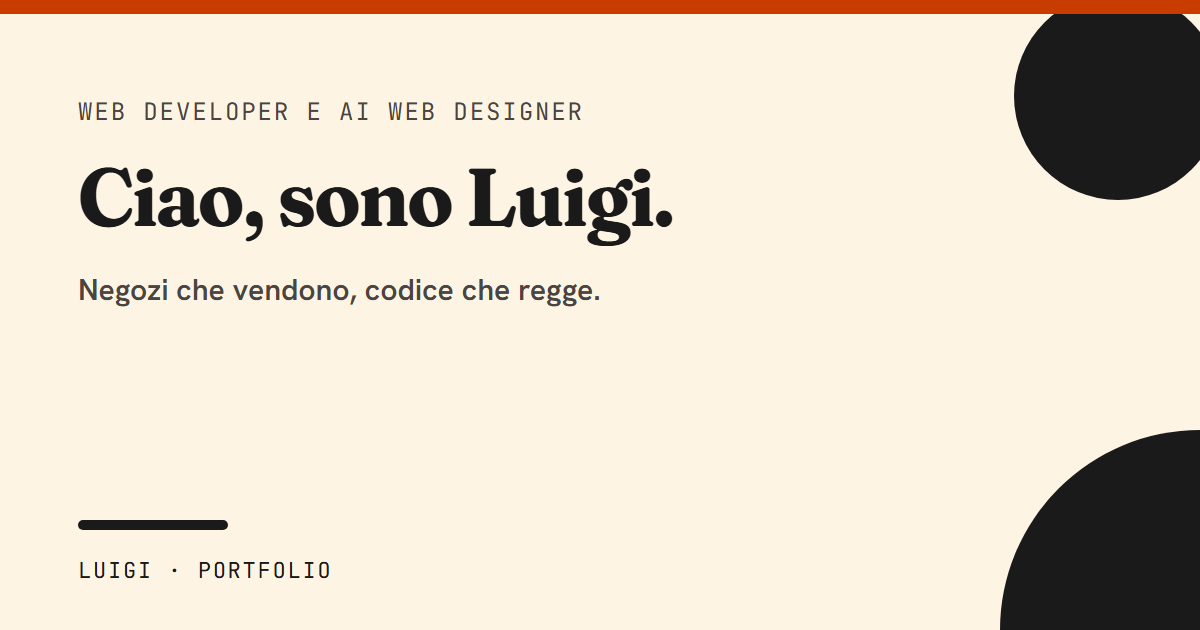
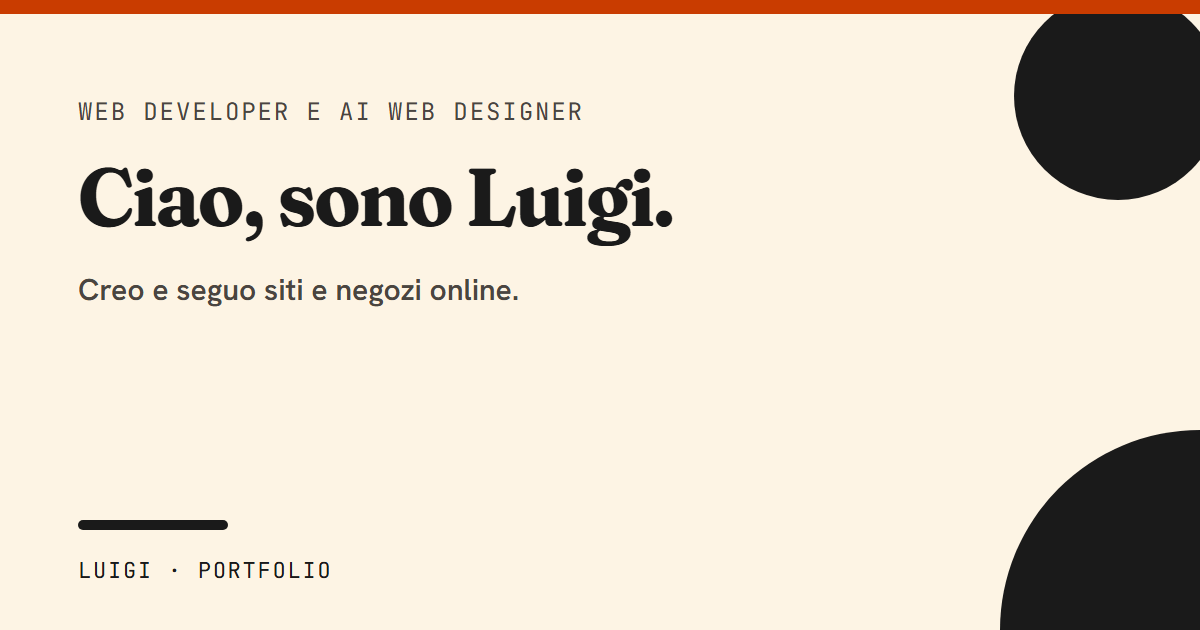
chore(og): anteprime di home, contatti e caso reale con i testi attuali
- Home: slogan "Creo e seguo siti e negozi online."
- Contatti: titolo "Discutiamone insieme." e la riga della pagina come
  sottotitolo (la vecchia prometteva una risposta entro un giorno).
- Caso reale: titolo "I numeri prima, il sito dopo.", lente decisione.
- prepara-og.mjs accetta i file da rigenerare come argomenti: le altre
  og restano come sono.
- STATO.md aggiornato.

Changed region(s): [[0.0617, 0.4222, 0.4933, 0.4825]]

diff --git a/docs/STATO.md b/docs/STATO.md
@@ -7,7 +7,7 @@
 - **Fase 2** — hero con switch target (isola React, scelta in `localStorage`, `html[data-target]`), scena scrivania con hotspot ed etichette.
 - **Fase 3** — collection `progetti`, caso reale + 2 placeholder, griglia con ordine per percorso, dettaglio `/progetti/[slug]` con colonna pinnata, ramp/funnel/StatTile/slider prima-dopo, tilt card, View Transitions, conteggio numeri.
 - **Fase 5** — `/come-lavoro` (4 passi, stack, progetto n°5), `/contatti` (canali + form Formspree attivo), 404, sitemap + robots (endpoint) + og-image per ogni pagina, `vercel.json`, README in italiano. Review finale fatta: contrasti AA e bersagli tattili a posto.
-- Test permanenti: `test-switch`, `test-scena`, `test-etichette`, `test-progetti`, `test-pagine` (390 e 1280), `test-nav` (320, 360, 390, 430, 768, 1280 più le rotazioni), tutti verdi.
+- Test permanenti: `test-switch`, `test-scena`, `test-etichette`, `test-progetti`, `test-pagine` (390 e 1280), `test-nav` (320, 360, 390, 430, 768, 1280 più le rotazioni), `test-forme` (320, 390, 768, 1024, 1280), tutti verdi.
 
 ## Correzioni dall'audit (2026-09-21)
 
@@ -195,6 +195,51 @@ visibili a riposo) non è stato toccato.
   vero", lo "stack" nella description di `/come-lavoro`, le og-image fuori sincrono) non è stato
   toccato: resta da decidere. Verificato con i sei test permanenti sulla build di preview (tutti
   verdi) e screenshot a 390/1280.
+
+- **Nav, forme e testi (2026-09-23).**
+  - **Riempimento della nav trasparente.** Segnalato da Luigi: voce attiva col testo cream e
+    riempimento trasparente. Nel sorgente, nella build e sul sito online il riempimento era già
+    `--color-ink` (dal commit `d711bf2`): il bug non si riproduce, e con il vecchio
+    `var(--color-verde-deep)` rimesso apposta il fondo diventa `rgba(0, 0, 0, 0)`, cioè
+    proprio il sintomo, quindi con ogni probabilità era una vista rimasta indietro (dev server o
+    cache del browser). Cercando è però uscito un difetto vero: l'id di `transition:persist`
+    dell'header era un contatore diverso per pagina (home `-7`, caso reale `-3`, contatti e
+    come-lavoro `-1`), quindi uscendo dalla home o dal caso reale l'header veniva sostituito e
+    il riempimento smetteva di scorrere. Ora il nome è fisso (`transition:persist="site-nav"`);
+    per non lasciare "Progetti" accesa uscendo dalla home, le voci di sezione ripartono spente a
+    ogni pagina. `test-nav` verifica su tutte le pagine, aperte direttamente e raggiunte dalla
+    nav, che la voce col testo cream abbia sotto il riempimento con fondo ink (letto dal token)
+    e che l'header resti lo stesso nodo.
+  - **Colori residui.** Nel codice (componenti, CSS, script, classi Tailwind, stili inline, script
+    delle immagini) nessun riferimento a verde, verde-deep, blu, giallo, rosso o ai loro hex.
+    Restavano solo i testi alternativi di tre cover, che descrivevano colori non più presenti:
+    riscritti (`cerchio nero`, `barra nera`, `Due archi neri affiancati...`). Lasciati apposta: i
+    documenti storici (`MASTER_PROMPT.md`, `docs/AUDIT.md`, `docs/inventario-testi.md`, questo
+    file) e `docs/content/fornace-vietri.md`, dove blu, giallo e verde sono i colori delle
+    ceramiche. Le illustrazioni della scena scrivania (schermo blu, tasti verdi e rossi del
+    telefono, barre del grafico) sono disegni raster e non sono state toccate.
+  - **Forme Bauhaus lontane dal testo.** Nuovo `scripts/test-forme.mjs`: per ogni forma calcola
+    l'area che può occupare davvero (disco della diagonale per quelle che girano, più la corsa
+    del parallax verso l'alto, ritaglio dell'overflow) e vuole almeno 8px da ogni riga di testo,
+    etichette della scena comprese. Il primo giro ha trovato 24 casi: il cerchio e il quarto di
+    `/contatti` sul titolo, il semicerchio dell'hero sulla CTA e sul +86% a 1024 e 1280, e a 390
+    tutte e quattro le forme dell'hero sulle etichette delle tessere. Correzioni: hero sotto i
+    768 senza barra e con cerchio, semicerchio e quarto spostati negli angoli; hero da 1024 con
+    il semicerchio sotto la scena invece che in basso a sinistra; `/contatti` con il quarto
+    nell'angolo in alto a destra e il cerchio sotto la fine del titolo; `/come-lavoro` cerchio
+    4px più in alto (a 320 stava a 5,8px). Verificato anche a 360, 430, 900, 1100 e 1440.
+  - **Testi.** 404: titolo `Pagina non trovata.`, testo `La pagina che cerchi non esiste o è
+    stata spostata.`, description `Pagina non trovata.` (il bottone `Torna alla home` c'era
+    già, `Vedi i progetti` è rimasto). Form: intro dev `Nome, email e messaggio. Ti rispondo
+    io.`, "call" → "chiamata" nell'intro business. GitHub: `Guarda il mio codice` (contatti e
+    footer). Description di `/come-lavoro`: `Come lavoro con i clienti, passo dopo passo, e gli
+    strumenti che uso.` Og: home con slogan `Creo e seguo siti e negozi online.`, contatti con
+    titolo `Discutiamone insieme.` e come sottotitolo la riga della pagina (la vecchia
+    prometteva di rispondere entro un giorno lavorativo, promessa tolta dal sito il 2026-09-22),
+    caso reale con titolo `I numeri prima, il sito dopo.` e lente `decisione`.
+    `prepara-og.mjs` accetta ora i file da rigenerare come argomenti.
+  Verificato sulla build di preview con i sette test permanenti (tutti verdi) e screenshot a
+  390/768/1280 di home, contatti, come-lavoro e 404.
 
 - **Prova sopra la piega nell'hero (2026-09-22).** Risponde a due punti della passata 2 di
   `docs/AUDIT.md`: il 3 (i numeri veri stavano a due click dalla home) e il 5 (lo switch cambiava
